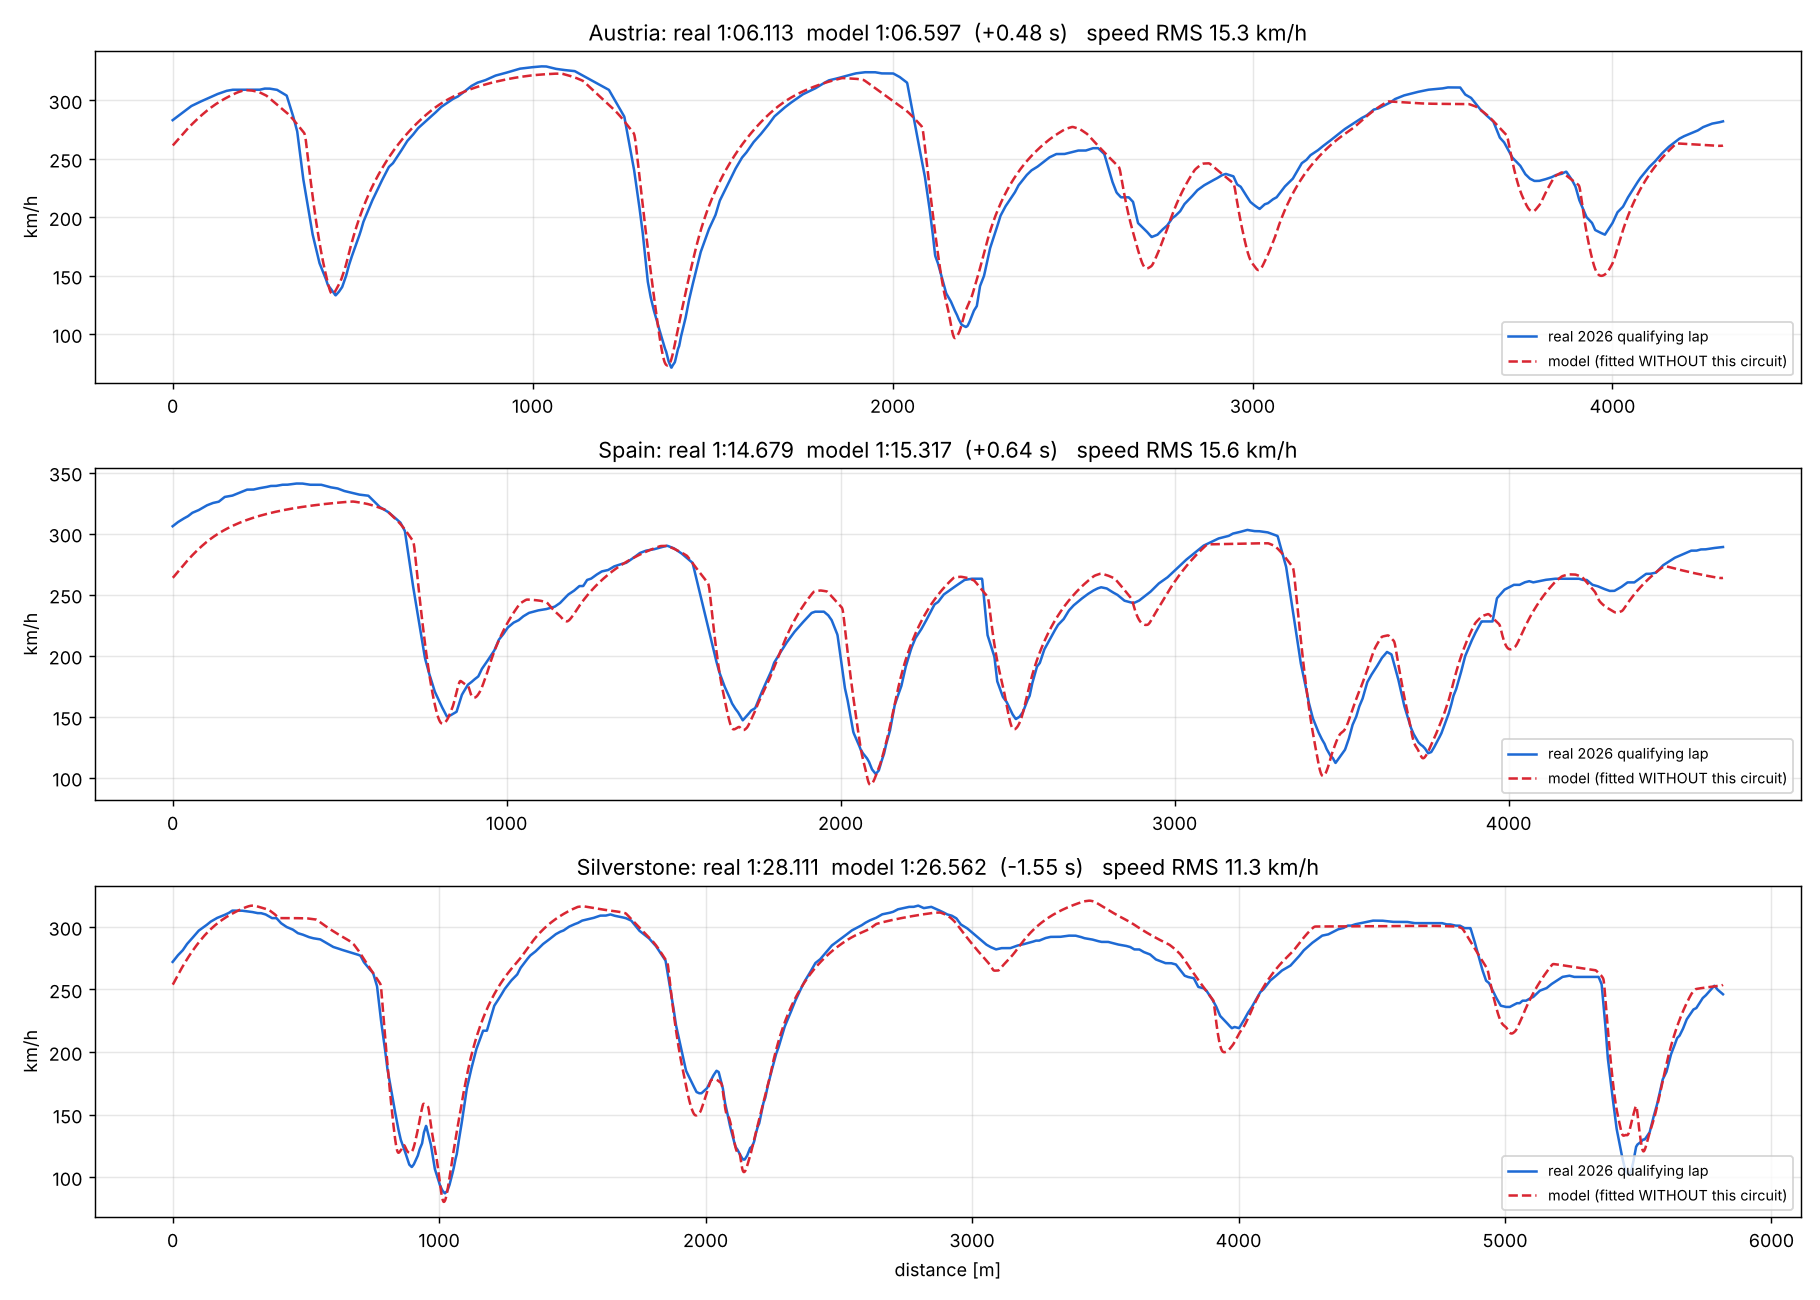
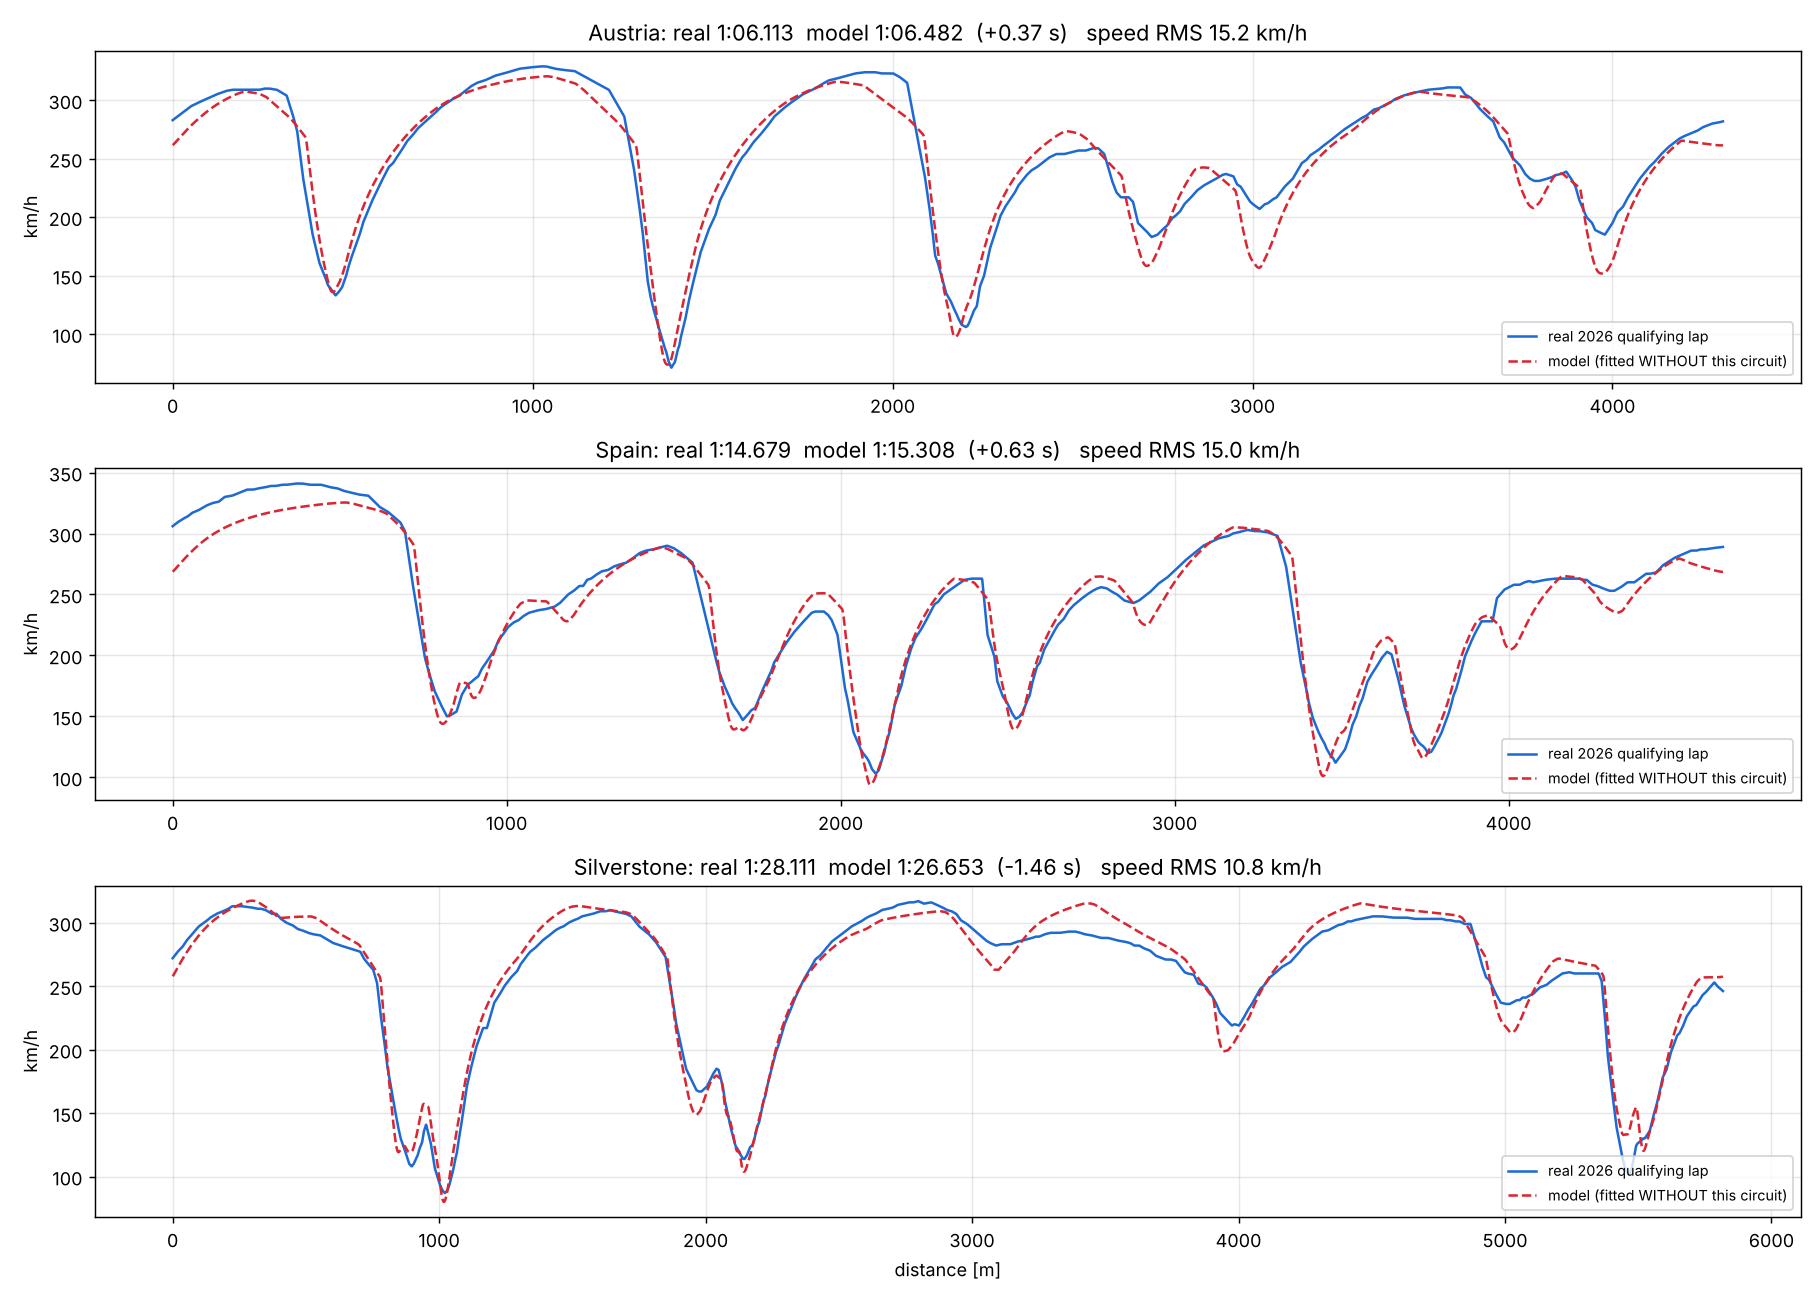
fix(physics): Fix energy optimiser stalling; refit calibration
- Steps applied as a delta on node-level plan, trust region recovers after good steps, LP retries with relaxed SOC margin on infeasibility
- Taper clamp applied at displayed speed; SOC trace uses solver time grid
- Recalibrated on 3 real 2026 qualifying laps (leave-one-out RMS 0.94 s)

diff --git a/qss_core.py b/qss_core.py
@@ -498,6 +498,7 @@ def optimise_energy(
     best_t = info.t
     history = [best_t]
     trust = trust0_kw
+    small_gain = 0
 
     for it in range(n_iter):
         g = np.array(model.gradient(info, list(p_node)) + [0.0])
@@ -517,28 +518,29 @@ def optimise_energy(
         S_plus = -cum @ e_dep
         S_minus = cum @ e_har
         S = np.hstack([S_plus, S_minus])                      # SOC_j - soc0 = S x
-        A_ub = [S, -S, S[-1:] * -1.0]
-        b_ub = [np.full(J, soc_max - margin - soc0), np.full(J, soc0 - (soc_min + margin)), np.array([soc0 - soc_end_min - margin])]
-        # recharge limit
-        rech_row = np.concatenate([np.zeros(J), dt_j * eta_h / 1000.0])[None, :]
-        A_ub.append(rech_row)
-        b_ub.append(np.array([rech_max - 0.02]))
-        # trust region on net power
+        # trust-region rows
         I = np.eye(J)
-        A_ub.append(np.hstack([I, -I]))
-        b_ub.append(p0_j + trust)
-        A_ub.append(np.hstack([-I, I]))
-        b_ub.append(-(p0_j - trust))
+        tr_A = [np.hstack([I, -I]), np.hstack([-I, I])]
+        tr_b = [p0_j + trust, -(p0_j - trust)]
         bounds = [(0.0, float(max(0.0, d))) for d in dbound] + [(0.0, float(max(0.0, h))) for h in hbound]
-        res = linprog(c, A_ub=np.vstack(A_ub), b_ub=np.concatenate(b_ub), bounds=bounds, method="highs")
+        rech_row = np.concatenate([np.zeros(J), dt_j * eta_h / 1000.0])[None, :]
+        res = None
+        # the current plan can sit exactly on the SOC limits (clamped), so the safety margin is relaxed if the LP
+        # has no feasible point inside the trust region
+        for mrg in (margin, 0.005, 0.0, -0.03):
+            A_ub = [S, -S, S[-1:] * -1.0, rech_row] + tr_A
+            b_ub = [np.full(J, soc_max - mrg - soc0), np.full(J, soc0 - (soc_min + mrg)),
+                    np.array([soc0 - soc_end_min - mrg]), np.array([rech_max - 0.02])] + tr_b
+            res = linprog(c, A_ub=np.vstack(A_ub), b_ub=np.concatenate(b_ub), bounds=bounds, method="highs")
+            if res.status == 0:
+                break
         if res.status != 0:
             trust *= 0.5
             continue
         p_new_j = res.x[:J] - res.x[J:]
         accepted = False
-        for alpha in (1.0, 0.5, 0.25, 0.1):
-            p_try_j = p0_j + alpha * (p_new_j - p0_j)
-            p_try = p_try_j[blk]
+        for alpha in (1.0, 0.5, 0.25, 0.1, 0.05, 0.02):
+            p_try = p_node + alpha * (p_new_j - p0_j)[blk]        # delta on the node-level plan (keeps its fine structure)
             inf2, h2, d2, b2, soc2, rech2, de2, peff2, feas2 = evaluate(p_try)
             if feas2 and inf2.t < best_t - 1e-5:
                 accepted = True
@@ -550,13 +552,19 @@ def optimise_energy(
             history.append(best_t)
             if verbose:
                 print(f"   iter {it:2d}: T={best_t:.4f}  trust={trust:.0f}  alpha={alpha}  recharge={rech:.2f}  dep_el={dep_e:.2f}  socmin={min(soc):.2f}")
+            if alpha >= 1.0:
+                trust = min(trust0_kw, trust * 1.5)          # full step worked: let the trust region recover
             if gain < 2e-4:
-                trust *= 0.5
-                if trust < 8.0:
+                small_gain += 1
+                if small_gain >= 3:
                     break
+            else:
+                small_gain = 0
         else:
+            if verbose:
+                print(f"   iter {it:2d}: rejected (LP status {res.status}, pred. step {np.abs(p_new_j - p0_j).max():.0f} kW, last trial T={inf2.t:.4f} vs {best_t:.4f}, feasible={feas2}) trust={trust:.0f}")
             trust *= 0.5
-            if trust < 8.0:
+            if trust < 3.0:
                 break
 
     return EnergyPlan(p_kw=np.array(p_node), info=info, soc=np.array(soc), recharge_mj=rech, deploy_elec_mj=dep_e, history=history)
